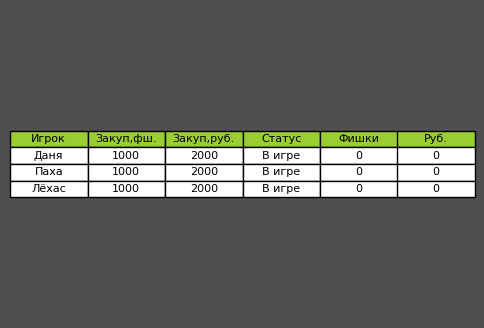
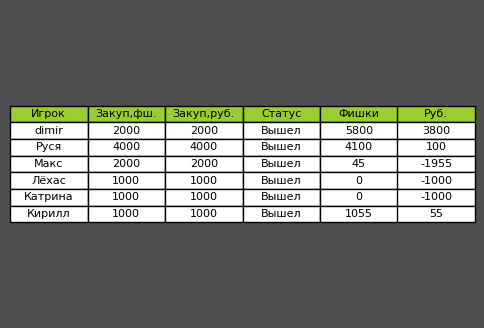
New data base

Changed region(s): [[0.0, 0.3049, 0.9917, 0.7012]]

diff --git a/db_hadler/db_class.py b/db_hadler/db_class.py
@@ -1,7 +1,15 @@
 import json
 import asyncpg
 
+
 from decouple import config
+
+data_number = 1
+
+
+async def change_number_db(number: int):
+    global data_number
+    data_number = number
 
 
 class Database:
@@ -29,7 +37,7 @@ class Database:
                 print(f'Unable to connect to the database: {e}')
         login = player_data.get('login')
         async with cls._pool.acquire() as conn:
-            await conn.fetch('INSERT INTO players (login) VALUES ($1)', login)
+            await conn.fetch(f'INSERT INTO players_{data_number} (login) VALUES ($1)', login)
 
     @classmethod
     async def get_users_bd(cls):
@@ -41,7 +49,7 @@ class Database:
             except Exception as e:
                 print(f'Unable to connect to the database: {e}')
         async with cls._pool.acquire() as conn:
-            user = await conn.fetch("SELECT * FROM players;")
+            user = await conn.fetch(f"SELECT * FROM players_{data_number};")
             players = [login[1] for login in user]
             return players
 
@@ -55,7 +63,7 @@ class Database:
             except Exception as e:
                 print(f'Unable to connect to the database: {e}')
         async with cls._pool.acquire() as conn:
-            await conn.fetch("INSERT INTO games (count) VALUES ($1)", count)
+            await conn.fetch(f"INSERT INTO games_{data_number} (count) VALUES ($1)", count)
 
     @classmethod
     async def get_date(cls):
@@ -67,7 +75,7 @@ class Database:
             except Exception as e:
                 print(f'Unable to connect to the database: {e}')
         async with cls._pool.acquire() as conn:
-            date = (await conn.fetchrow("SELECT date FROM GAMES ORDER BY id DESC LIMIT 1;"))['date'].strftime('%d.%m.%Y')
+            date = (await conn.fetchrow(f"SELECT date FROM GAMES_{data_number} ORDER BY id DESC LIMIT 1;"))['date'].strftime('%d.%m.%Y')
             return date
 
     @classmethod
@@ -80,7 +88,7 @@ class Database:
             except Exception as e:
                 print(f'Unable to connect to the database: {e}')
         async with cls._pool.acquire() as conn:
-            game_id = (await conn.fetchrow("SELECT id FROM GAMES ORDER BY id DESC LIMIT 1;"))['id']
+            game_id = (await conn.fetchrow(f"SELECT id FROM GAMES_{data_number} ORDER BY id DESC LIMIT 1;"))['id']
             return game_id
 
     @classmethod
@@ -94,7 +102,7 @@ class Database:
                 print(f'Unable to connect to the database: {e}')
         async with cls._pool.acquire() as conn:
             game = json.dumps(game, ensure_ascii=False)
-            await conn.fetch("UPDATE games SET game = $1 WHERE id = $2", game, game_id)
+            await conn.fetch(f"UPDATE games_{data_number} SET game = $1 WHERE id = $2", game, game_id)
 
     @classmethod
     async def get_games(cls):
@@ -106,7 +114,7 @@ class Database:
             except Exception as e:
                 print(f'Unable to connect to the database: {e}')
         async with cls._pool.acquire() as conn:
-            games = await conn.fetch("SELECT game FROM games ;")
+            games = await conn.fetch(f"SELECT game FROM games_{data_number} ;")
             games_list = [game[0] for game in games if game[0]]
             return games_list
 
@@ -121,7 +129,7 @@ class Database:
                 print(f'Unable to connect to the database: {e}')
         async with cls._pool.acquire() as conn:
             for player, value in data.items():
-                await conn.fetch("UPDATE players SET games = $1, win = $2, draw = $3, loss = $4, winrate = $5, earned = $6 WHERE login = $7",
+                await conn.fetch(f"UPDATE players_{data_number} SET games = $1, win = $2, draw = $3, loss = $4, winrate = $5, earned = $6 WHERE login = $7",
                                  value.get('games'), value.get('win'), value.get('draw'), value.get('loss'), value.get('winrate'), value.get('earned'), player)
 
     @classmethod
@@ -134,6 +142,6 @@ class Database:
             except Exception as e:
                 print(f'Unable to connect to the database: {e}')
         async with cls._pool.acquire() as conn:
-            statistics_sorted = await conn.fetch("SELECT * FROM players ORDER BY earned DESC;")
+            statistics_sorted = await conn.fetch(f"SELECT * FROM players_{data_number} ORDER BY earned DESC;")
             statistics_list = [player for player in statistics_sorted]
             return statistics_list

diff --git a/handlers/start.py b/handlers/start.py
@@ -1,10 +1,17 @@
 from aiogram import Router, F
-from aiogram.filters import CommandStart, Command
-from aiogram.types import Message
+from aiogram.filters import CommandStart
+from aiogram.types import Message, CallbackQuery
+from aiogram.fsm.state import State, StatesGroup
+from aiogram.fsm.context import FSMContext
 
-from keyboards.inline_kbs import main_kb
+from keyboards.inline_kbs import main_kb, admin_main_kb
+from db_hadler.db_class import change_number_db
 
 start_router = Router()
+
+
+class ChangeDataBse(StatesGroup):
+    change_bd = State()
 
 
 @start_router.message(CommandStart())
@@ -12,3 +19,23 @@ async def cmd_start(message: Message):
     """Вызов стартовой клавиатуры"""
     await message.answer('Салам браток 🤙',
                          reply_markup=main_kb(message.from_user.id))
+
+
+@start_router.callback_query(F.data == 'админ панель')
+async def admin_board(call: CallbackQuery):
+    await call.message.answer('Что делаем?', reply_markup=admin_main_kb())
+
+
+@start_router.callback_query(F.data == 'изменить базу данных')
+async def change_data_base(call: CallbackQuery, state: FSMContext):
+    await state.clear()
+    await call.message.answer('Номер базы данных:')
+    await state.set_state(ChangeDataBse.change_bd)
+
+
+@start_router.message(ChangeDataBse.change_bd)
+async def change_data_base_end(message: Message, state: FSMContext):
+    number_bd = int(message.text)
+    print(number_bd)
+    await change_number_db(number_bd)
+    await state.clear()

diff --git a/handlers/player.py b/handlers/player.py
@@ -29,13 +29,13 @@ async def new_player(call: CallbackQuery, state: FSMContext):
 
 
 @player_router.message(Command('new_player'))
-async def new_player(call: CallbackQuery, state: FSMContext):
+async def new_player(message: Message, state: FSMContext):
     """Добавление в таблицу player базы данных нового игрока
     Запрос логина"""
     await state.clear()
-    async with ChatActionSender.typing(bot=bot, chat_id=call.from_user.id):
+    async with ChatActionSender.typing(bot=bot, chat_id=message.from_user.id):
         await asyncio.sleep(1)
-        await call.message.answer('Как тебя величать, дружок?', reply_markup=None)
+        await message.answer('Как тебя величать, дружок?', reply_markup=None)
     await state.set_state(Player.login.state)
 
 

diff --git a/keyboards/inline_kbs.py b/keyboards/inline_kbs.py
@@ -19,6 +19,18 @@ def main_kb(user_telegram_id: int):
     return keyboard
 
 
+def admin_main_kb():
+    kb_list = [
+        [InlineKeyboardButton(text="📚 Меняем базу данных", callback_data='изменить базу данных')],
+        [InlineKeyboardButton(text="📋 Статистика игроков", callback_data='cтатистика игроков')]
+    ]
+    keyboard = InlineKeyboardMarkup(
+        inline_keyboard=kb_list,
+        resize_keyboard=True,
+        one_time_keyboard=True)
+    return keyboard
+
+
 def make_count():
     """Клавиатура коэффициента фишки к рублю"""
     kb_list = [
